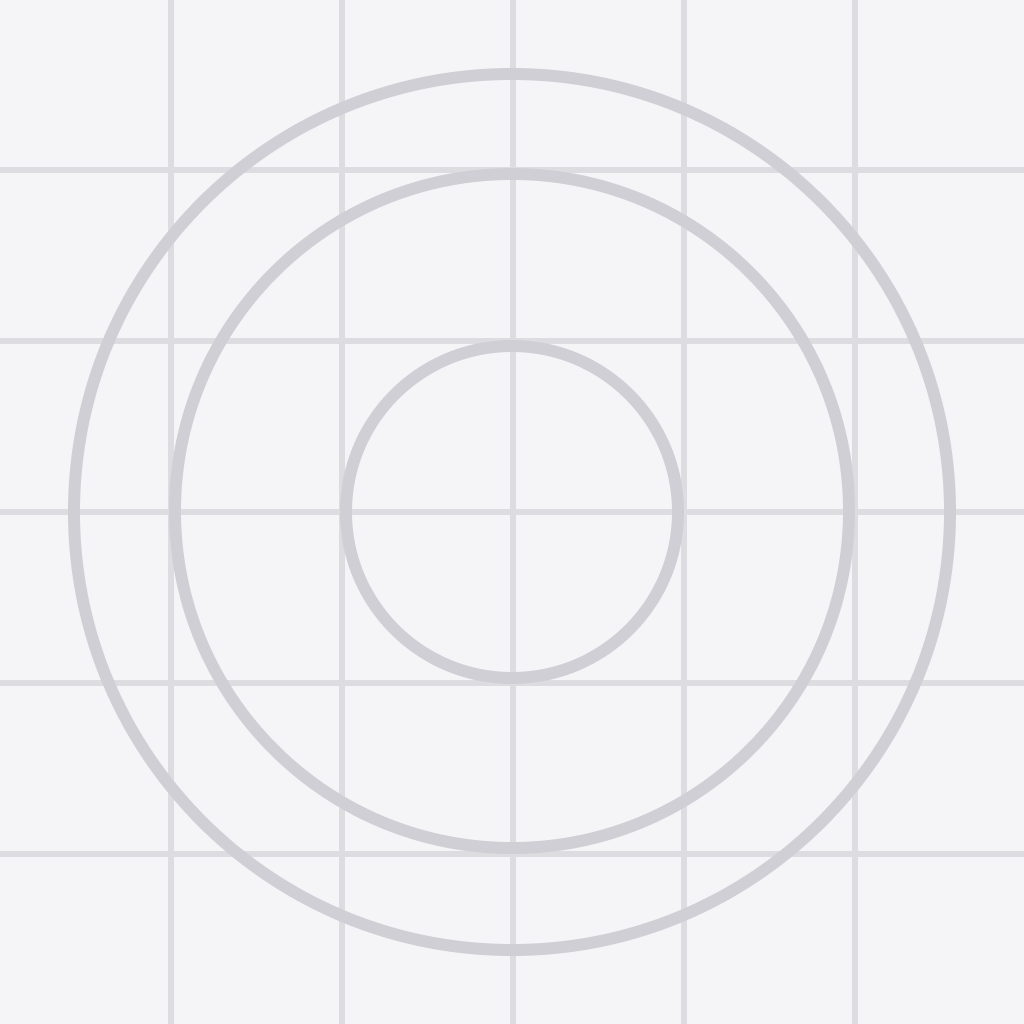
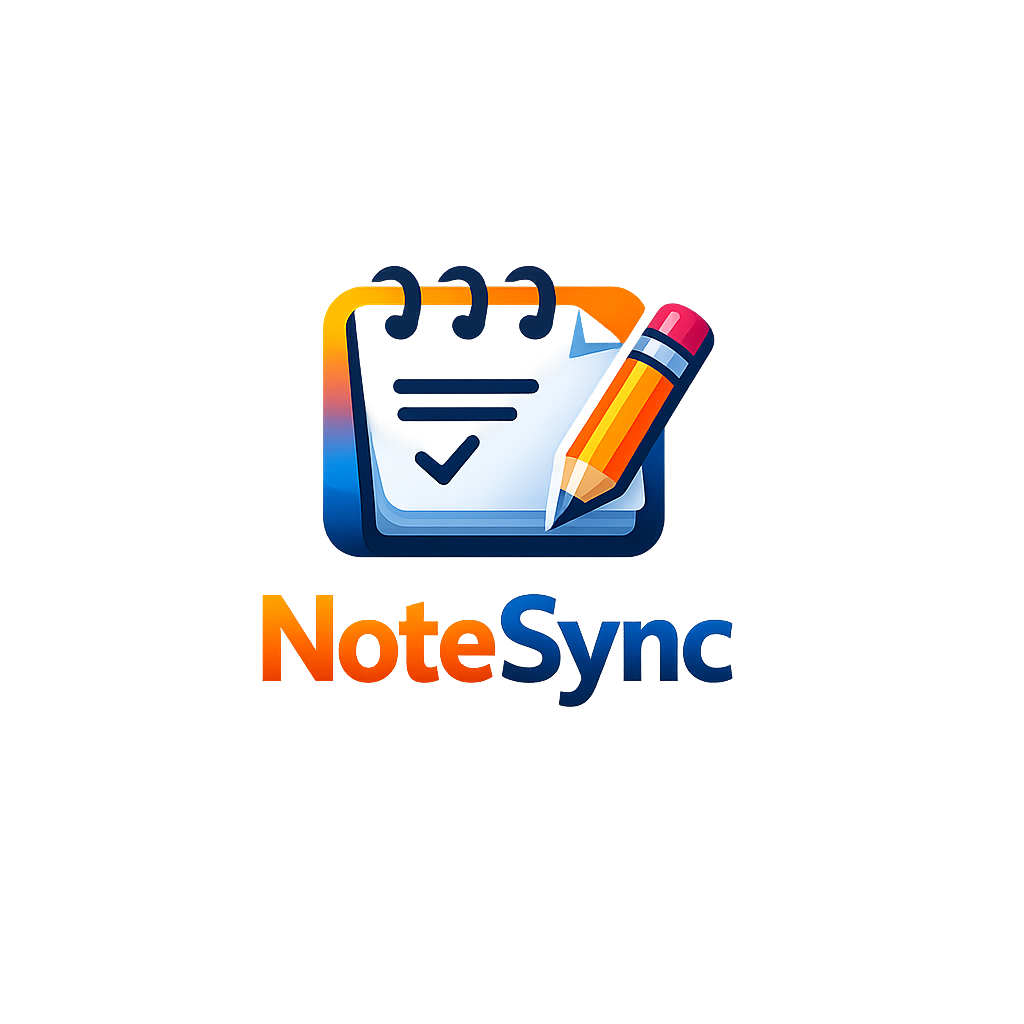
changes

diff --git a/screens/NotesScreen.tsx b/screens/NotesScreen.tsx
@@ -1,49 +1,90 @@
-import { View, Text, Button, FlatList } from "react-native";
+import { View, Text, Pressable, FlatList, TextInput, ScrollView, StyleSheet, Button } from "react-native";
 import { useNotes } from "../context/NotesContext";
+import { useState } from "react";
+import { EditorPressable } from "../component/editpressable";
+import { DeletePressable } from "../component/DeletePressable"
 
 export default function NotesScreen({ navigation }: any) {
     const { notes, deleteNote } = useNotes();
+    const [search, setSearch] = useState("");
+    const filteredNotes = notes.filter((note) =>
+        note.title
+            .toLowerCase()
+            .includes(search.toLocaleLowerCase())
+    );
     return (
-        <View>
-            <Text>Notes Screen</Text>
-            <Text>{notes.length}</Text>
-            <FlatList
-                data={notes}
-                renderItem={({ item }) => (
-
-
-                    <View style={{
-                        margin: 10,
-                        padding: 15,
-                        borderWidth: 1,
-                        borderRadius: 10,
-                    }}>
-                        <Text>{item.title}</Text>
-                        <Text>{item.content}</Text>
-
-                        <Button
-                            title="Delete"
-                            onPress={() => deleteNote(item.id)}
-                        />
-
-                                    <Button 
-                title="Edit Notes"
-                onPress={() => 
-                    navigation.navigate("EditNote", {
-                        noteId: item.id,
-                    })
-                }
+        <View style={styles.container}>
+            <Text style={styles.Numbernotes}>Number of notes : {notes.length}</Text>
+            <TextInput
+                placeholder="Search notes..."
+                value={search}
+                onChangeText={setSearch}
+                style={styles.search}
             />
-                    </View>
-                )}
-                keyExtractor={(item) => item.id}
+            <ScrollView style={styles.inside}>
 
-            />
+                <FlatList
+                    data={filteredNotes}
+                    renderItem={({ item }) => (
+                        <View style={styles.file}>
+                            <View style={{flexDirection:'row'}}>
+                                <View style=
+                                {{flexDirection: 'column'}}>
+                                    <Text>{item.title}</Text>
+                                    <Text>{item.content}</Text>
+                                </View>
+                                <View style=
+                                {{flexDirection:'row-reverse'}}>
+                                    <DeletePressable
+                                        text="Delete"
+                                        onPress={() => deleteNote(item.id)}
+                                    />
+                                    <EditorPressable
+                                        text="Edit"
+                                        onPress={() =>
+                                            navigation.navigate("EditNote", {
+                                                noteId: item.id,
+                                            })
+                                        }
+                                    />
+                                </View>
+                            </View>
+                        </View>
+                    )}
+                    keyExtractor={(item) => item.id}
+
+                />
+            </ScrollView>
+
             <Button
                 title="Create Note"
                 onPress={() => navigation.navigate("CreateNote")}
             />
-
         </View>
+
+
     )
 }
+
+const styles = StyleSheet.create({
+    container: {
+        flex: 1,
+        padding: 20,
+    },
+    search: {
+        borderWidth: 1,
+    },
+    Numbernotes: {
+        textAlign: 'center',
+        padding: 10,
+    },
+    file: {
+        borderWidth: 1,
+        margin: 10
+    },
+    inside: {
+        borderWidth: 1,
+        marginTop: 10,
+        marginBottom: 10,
+    },
+});

diff --git a/context/NotesContext.tsx b/context/NotesContext.tsx
@@ -1,8 +1,5 @@
-import {
-  createContext,
-  useContext,
-  useState,
-} from "react";
+import { createContext, useContext, useState, useEffect } from "react";
+import AsyncStorage from "@react-native-async-storage/async-storage";
 
 type Note = {
   id: string;
@@ -33,18 +30,44 @@ export function NotesProvider({
         setNotes((prev) => 
         prev.filter((notes) => notes.id !== id))
     }
-  const [notes, setNotes] = useState<Note[]>([
-    {
-         id: "1",
-    title: "Shopping",
-    content: "Buy milk",
-    },
-  {
-    id: "2",
-    title: "Workout",
-    content: "Pushups 20 mins",
-  },
-  ]);
+  const [notes, setNotes] = useState<Note[]>([]);
+
+
+  const loadNotes = async() => {
+    try{
+      const storedNotes = 
+      await AsyncStorage.getItem("notes");
+      
+      if(storedNotes) {
+        setNotes(JSON.parse(storedNotes));
+      }
+    }
+    catch (error){
+      console.log(error);
+    }
+  }
+
+  useEffect(() => {
+    loadNotes();
+  }, []);
+
+useEffect(() => {
+  const saveNotes = async () => {
+    try {
+      await AsyncStorage.setItem(
+        "notes",
+        JSON.stringify(notes)
+      );
+    } catch (error) {
+      console.log(error);
+    }
+  };
+
+  saveNotes();
+}, [notes]);
+
+
+
 
   const addNote = (note: Note) => {
     setNotes((prev) => [...prev, note]);

diff --git a/component/DeletePressable.tsx b/component/DeletePressable.tsx
@@ -1,0 +1,35 @@
+import {Pressable, PressableProps, StyleSheet, Text} from "react-native";
+
+export function DeletePressable(props: PressableProps & {text:string}){
+    return(
+        <Pressable
+        {...props} style={styles.button}
+        >
+            <Text style={styles.text}>
+                {props.text}
+            </Text>
+        </Pressable>
+    )
+}
+
+const styles = StyleSheet.create({
+    button: {
+        padding:10,
+        backgroundColor: "#fff",
+        borderRadius: 10,
+        borderColor: '#d0d0d0',
+        borderWidth: 1,
+        shadowColor: '#f56565',
+        shadowOffset: { width: 0, height: 5 },
+        shadowOpacity: 0.4,
+        shadowRadius: 5,
+        elevation: 10,
+        margin: 3,
+        marginTop:10,
+
+    },
+    text: {
+        color: '#eb2525',
+        fontWeight: "bold",
+    }
+})

diff --git a/component/editpressable.tsx b/component/editpressable.tsx
@@ -1,0 +1,35 @@
+import {Pressable, PressableProps, StyleSheet, Text} from "react-native";
+
+export  function EditorPressable(props: PressableProps & {text: string}){
+    return(
+        <Pressable
+        {...props} style={styles.button}
+        >
+            <Text style={styles.text}>
+                {props.text}
+            </Text>
+
+        </Pressable>
+    )
+}
+const styles = StyleSheet.create({
+    button: {
+        padding:10,
+        backgroundColor: "#fff",
+        borderRadius: 10,
+        borderColor: '#d0d0d0',
+        borderWidth: 1,
+        shadowColor: '#65ccf5',
+        shadowOffset: { width: 0, height: 5 },
+        shadowOpacity: 0.4,
+        shadowRadius: 5,
+        elevation: 10,
+        margin: 3,
+        marginTop:10,
+
+    },
+    text: {
+        color: '#2563eb',
+        fontWeight: "bold",
+    }
+})

diff --git a/App.tsx b/App.tsx
@@ -2,8 +2,8 @@ import { NotesProvider } from './context/NotesContext';
 import RootNavigator from './navigation/RootNavigator';
 
 export default function App() {
-  return(
+  return (
     <NotesProvider>
-    <RootNavigator />
+      <RootNavigator />
     </NotesProvider>);
 }